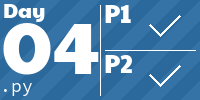
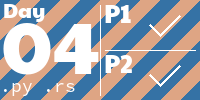
Day 04 in rs

diff --git a/solutions/day04/day04.rs b/solutions/day04/day04.rs
@@ -1,0 +1,62 @@
+use std::{
+    cmp::min,
+    io::{self, Read},
+};
+
+struct Card {
+    win: Vec<u64>,
+    have: Vec<u64>,
+}
+
+fn part1(cards: &Vec<Card>) -> u64 {
+    cards
+        .iter()
+        .map(|card| {
+            let wins: u32 = card.have.iter().map(|x| card.win.contains(x) as u32).sum();
+
+            if wins > 0 {
+                u64::pow(2, wins - 1)
+            } else {
+                0
+            }
+        })
+        .sum()
+}
+
+fn part2(cards: &Vec<Card>) -> u64 {
+    let mut res = vec![1 as u64; cards.len()];
+
+    cards.iter().enumerate().for_each(|(i, card)| {
+        let wins: u64 = card.have.iter().map(|x| card.win.contains(x) as u64).sum();
+
+        for j in 0..min(wins as usize, cards.len() - 1) {
+            *res.get_mut(i + j + 1).unwrap() += res[i];
+        }
+    });
+
+    res.iter().sum()
+}
+
+fn main() {
+    let mut inp = String::new();
+    io::stdin().read_to_string(&mut inp).unwrap();
+
+    // let mut cards = Vec::<Card>::new();
+
+    let cards = inp
+        .lines()
+        .map(|line| line.split_once(": ").unwrap().1.split_once(" | ").unwrap())
+        .map(|(win, have)| Card {
+            win: win
+                .split(" ")
+                .filter_map(|v| v.parse::<u64>().ok())
+                .collect(),
+            have: have
+                .split(" ")
+                .filter_map(|v| v.parse::<u64>().ok())
+                .collect(),
+        })
+        .collect();
+
+    println!("{} {}", part1(&cards), part2(&cards))
+}
